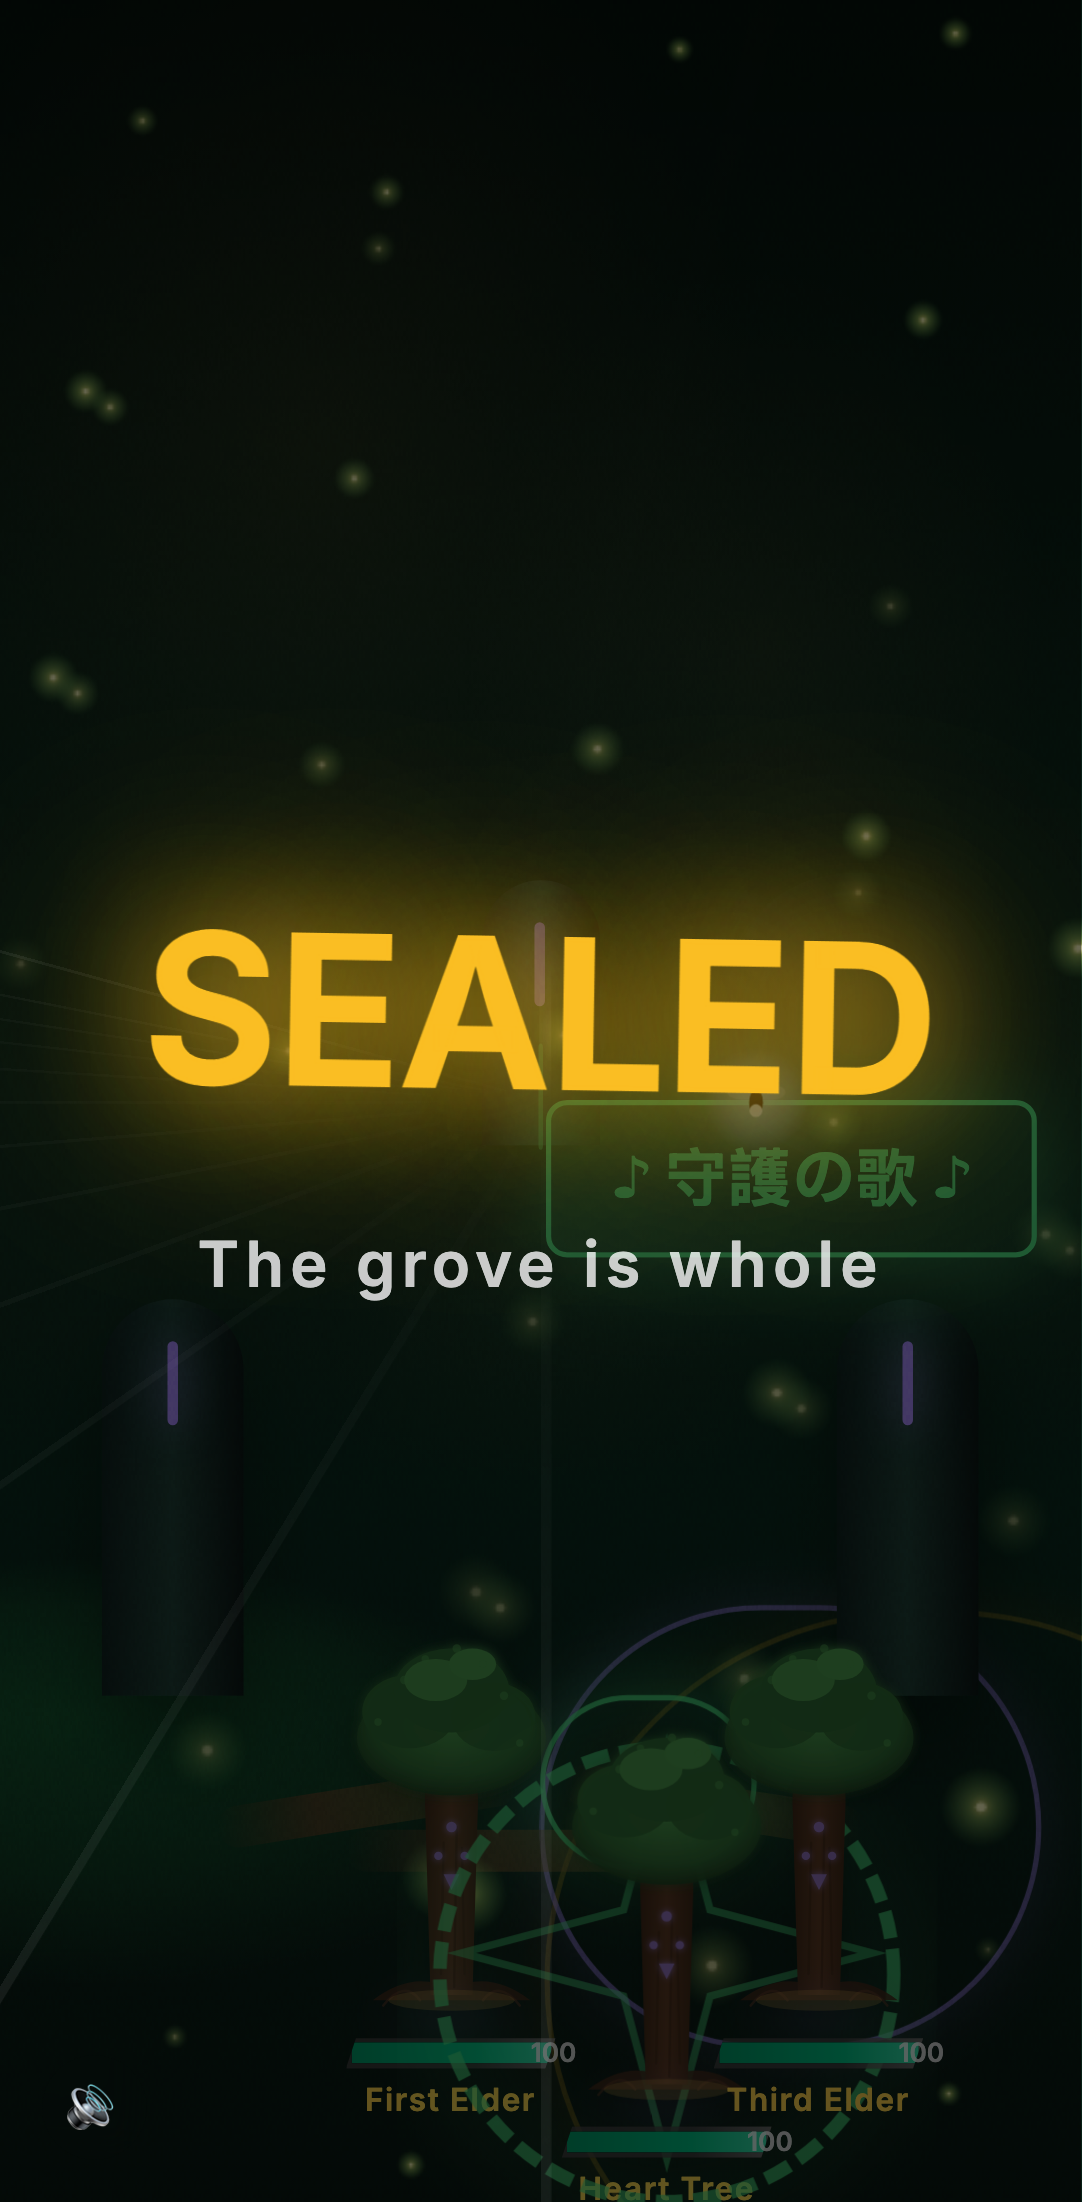
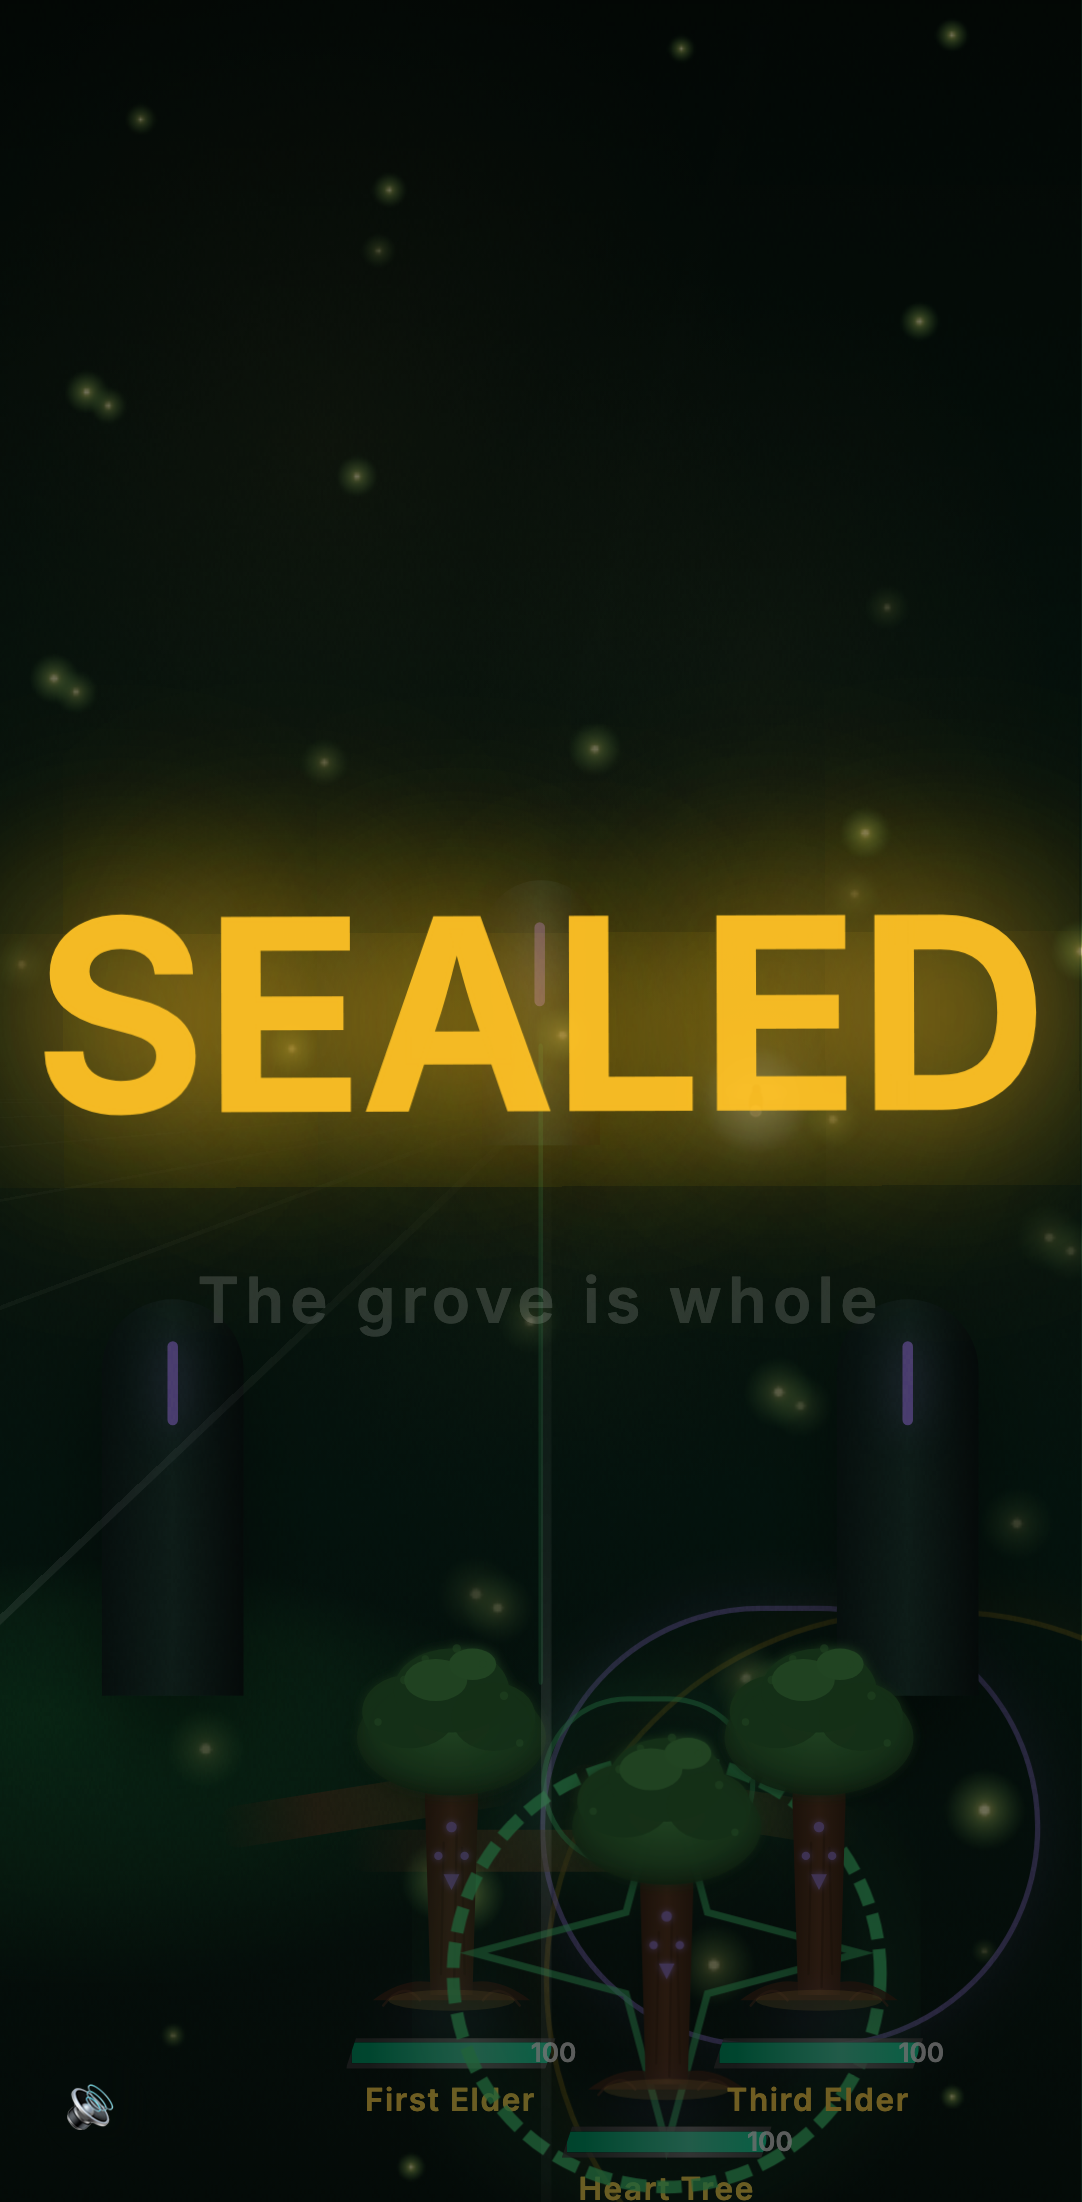
fix(ef): patch TypeError from e2e trace related to alertLevel undefined value

diff --git a/src/ui/game/ToneDrawer.tsx b/src/ui/game/ToneDrawer.tsx
@@ -1,5 +1,5 @@
 import { analyzeRuneGesture } from "@/sim/runes";
-import { forestAudio, type ToneType } from "@/lib/forestAudio";
+import { forestAudio } from "@/lib/forestAudio";
 import { RUNE_PATTERNS, type RunePattern } from "@/lib/runePatterns";
 import { AnimatePresence, motion } from "framer-motion";
 import { useCallback, useEffect, useRef, useState } from "react";
@@ -33,10 +33,6 @@ export function ToneDrawer({
   const isDrawingRef = useRef(false);
   const pointsRef = useRef<{ x: number; y: number; time: number }[]>([]);
   const lastNoteTimeRef = useRef(0);
-  const [showSpellFeedback, setShowSpellFeedback] = useState<{
-    type: ToneType;
-    position: { x: number; y: number };
-  } | null>(null);
   const [visualNotes, setVisualNotes] = useState<
     { x: number; y: number; note: number; id: number }[]
   >([]);
@@ -234,54 +230,6 @@ export function ToneDrawer({
             ♪
           </motion.div>
         ))}
-      </AnimatePresence>
-      <AnimatePresence>
-        {showSpellFeedback && (
-          <motion.div
-            className="fixed pointer-events-none z-40"
-            initial={{ scale: 0.5, opacity: 0 }}
-            animate={{ scale: 1, opacity: 1 }}
-            exit={{ scale: 1.5, opacity: 0 }}
-            transition={{ duration: 0.3 }}
-            style={{
-              left: showSpellFeedback.position.x,
-              top: showSpellFeedback.position.y,
-              transform: "translate(-50%, -50%)",
-            }}
-          >
-            <div
-              className="px-6 py-3 rounded-lg font-bold text-2xl text-center"
-              style={{
-                background:
-                  showSpellFeedback.type === "shield"
-                    ? "linear-gradient(135deg, rgba(74, 222, 128, 0.3), rgba(74, 222, 128, 0.1))"
-                    : showSpellFeedback.type === "heal"
-                      ? "linear-gradient(135deg, rgba(167, 139, 250, 0.3), rgba(167, 139, 250, 0.1))"
-                      : "linear-gradient(135deg, rgba(251, 191, 36, 0.3), rgba(251, 191, 36, 0.1))",
-                color:
-                  showSpellFeedback.type === "shield"
-                    ? "#4ade80"
-                    : showSpellFeedback.type === "heal"
-                      ? "#a78bfa"
-                      : "#fbbf24",
-                border: `2px solid ${showSpellFeedback.type === "shield" ? "#4ade80" : showSpellFeedback.type === "heal" ? "#a78bfa" : "#fbbf24"}`,
-                boxShadow: `0 0 40px ${showSpellFeedback.type === "shield" ? "rgba(74, 222, 128, 0.5)" : showSpellFeedback.type === "heal" ? "rgba(167, 139, 250, 0.5)" : "rgba(251, 191, 36, 0.5)"}`,
-              }}
-            >
-              {showSpellFeedback.type === "shield" && "♪ 守護の歌 ♪"}
-              {showSpellFeedback.type === "heal" && "♪ 癒しの調べ ♪"}
-              {showSpellFeedback.type === "purify" && "♪ 浄化の旋律 ♪"}
-            </div>
-          </motion.div>
-        )}
-      </AnimatePresence>
-    </>
-  );
-}
-          {showSpellFeedback.type === "purify" && "♪ 浄化の旋律 ♪"}
-            </div>
-          </motion.div>
-        )}
       </AnimatePresence>
     </>
   );

diff --git a/src/ui/game/CorruptionWave.tsx b/src/ui/game/CorruptionWave.tsx
@@ -92,7 +92,7 @@ function ShadowIntentTelegraph({ paths }: { paths: ShadowIntentPath[] }) {
           <motion.circle
             cx={path.targetX}
             cy={path.targetY}
-            r={1.4 + path.alertLevel * 1.4}
+            r={Math.max(1.4, 1.4 + (path.alertLevel || 0) * 1.4)}
             fill="none"
             stroke="rgba(251, 191, 36, 0.55)"
             strokeWidth="0.2"

diff --git a/src/sim/grove/session.ts b/src/sim/grove/session.ts
@@ -43,6 +43,6 @@ export function getForestRunSummary(state: ForestState) {
     targetMinutes: getForestSessionTargetMinutes(state.sessionMode),
     totalWaves: MAX_WAVES,
     wave: state.wave,
-    runesCast: state.runesCast,
+    runesCast: state.runesCast || { shield: 0, heal: 0, purify: 0 },
   };
 }

diff --git a/src/ui/game/GameUI.tsx b/src/ui/game/GameUI.tsx
@@ -58,6 +58,7 @@ interface GameUIProps {
     targetMinutes: number;
     totalWaves: number;
     wave: number;
+    runesCast: Record<string, number>;
   };
 }
 
